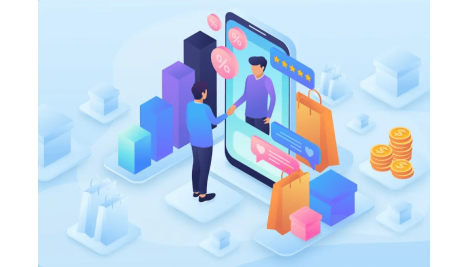
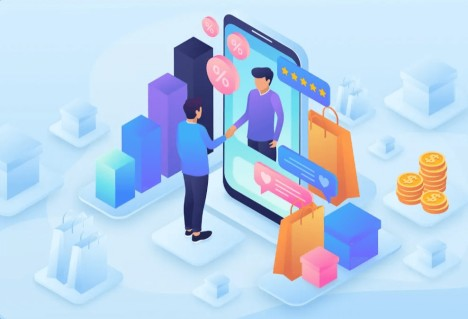
Add max-height style to image container for better layout control

diff --git a/retail-plateform.html b/retail-plateform.html
@@ -691,7 +691,7 @@
                 <!-- Blog Card 1 -->
                 <div class="col-md-6 col-lg-4 border py-3">
                     <div class="card bg-transparent border-0 h-100">
-                        <div class="overflow-hidden rounded-4 mb-3">
+                        <div class="overflow-hidden rounded-4 mb-3" style="max-height: 263px;">
                             <img src="./assets/images/unified-commerce.png" class="card-img-top img-fluid transition"
                                 style="transition: all 0.5s ease; transform: scale(1);"
                                 onmouseover="this.style.transform='scale(1.1)'"
